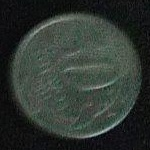
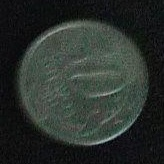
melhora a separação das moedas

diff --git a/detectCoin.py b/detectCoin.py
@@ -23,14 +23,20 @@ avg_color_per_row = np.average(gray, axis=0)
 avg_color = np.average(avg_color_per_row, axis=0)
 print(avg_color)
 
-if(avg_color >= 125):
+if(avg_color >= 100):
     gray = cv2.bitwise_not(gray)
 
-res = cv2.bitwise_and(img,img,mask = gray)
+g = gray.copy()
+
+res = cv2.bitwise_and(img, img,mask = gray)
 gray = cv2.cvtColor( res, cv2.COLOR_BGR2GRAY)
+gray = cv2.GaussianBlur(gray, (9, 9), 0)
+
+g2 = gray.copy()
 
 _,thresh = cv2.threshold(gray ,1,255,cv2.THRESH_BINARY)
 
+# thresh = cv2.GaussianBlur(thresh, (9, 9),0)
 
 thr = thresh.copy()
 
@@ -53,9 +59,11 @@ for label in np.unique(labels)[1:]:
     y = int(y)
     r = int(r)
 
-    r+=5
+    r+=10
 
     crop_img = save_img[(y -r):(y+ r), (x -r):(x+r)]
+    
+    #adicionar limite caso a moeda esteja no canto.
 
     cv2.imwrite(str(label) + ".jpg", crop_img)
 
@@ -63,8 +71,9 @@ for label in np.unique(labels)[1:]:
     cv2.putText(img, "#{}".format(label), (x - 10, y),cv2.FONT_HERSHEY_SIMPLEX, 0.6, (0, 0, 255), 2)
 
 
-cv2.imshow("teste", img)
-cv2.imshow("thr", crop_img)
-cv2.imshow("AND",res)
+cv2.imshow("teste", thr)
+cv2.imshow("thr", g2)
+cv2.imshow("AND", g)
+cv2.imshow("img", img)
 cv2.waitKey(0)
 cv2.destroyAllWindows()
